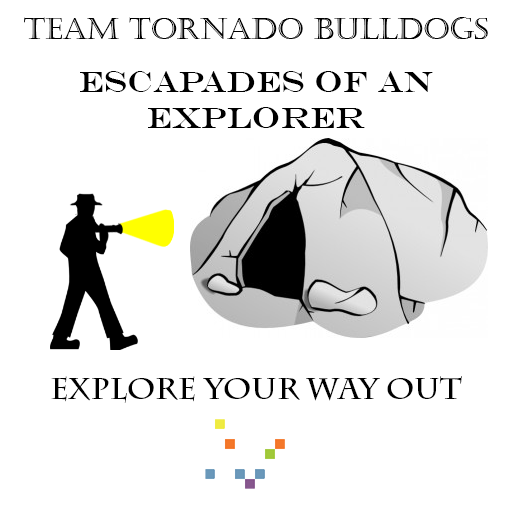
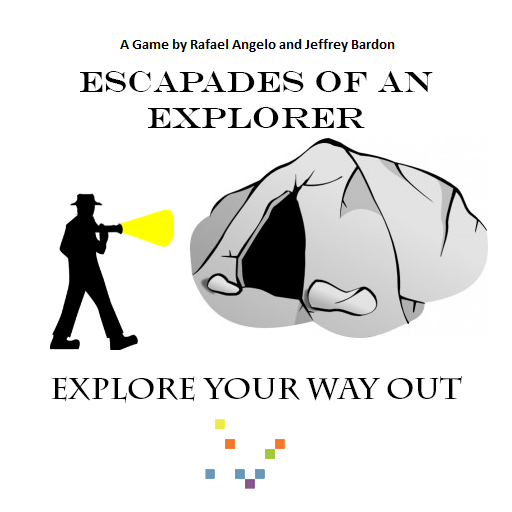
Changed page title and edited cover image

Changed region(s): [[0.0625, 0.0312, 0.9688, 0.125]]

diff --git a/game.html b/game.html
@@ -24,7 +24,7 @@ See dygraphs License.txt, <http://dygraphs.com> and <http://opensource.org/licen
 
 <html lang="en">
 <head>
-	<title>Perlenspiel 3.2</title>
+	<title>Escapades of an Explorer</title>
 	<meta charset="utf-8" />
 	<meta http-equiv="X-UA-Compatible" content="IE=edge, chrome=1" />
 	<meta name="description" content="Perlenspiel 3.2" />
